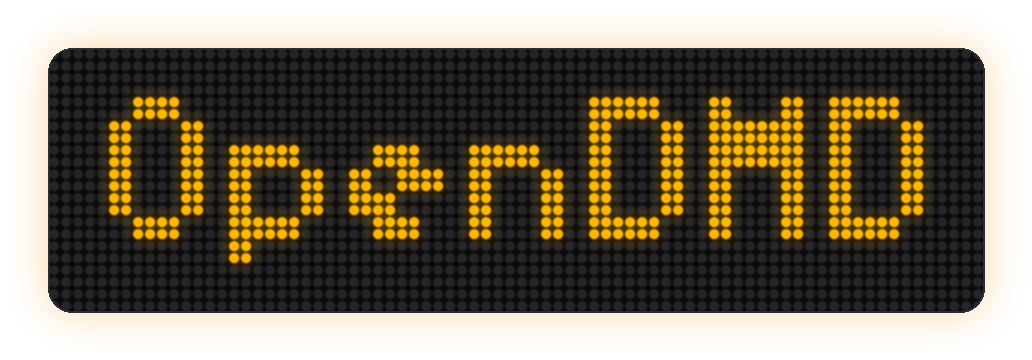
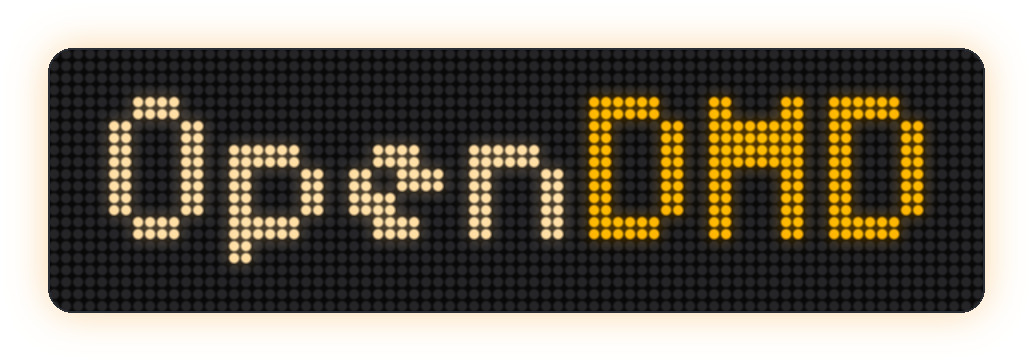
The wordmark in two colours: "Open" warm white, "DMD" amber
As in the OD mark. "Open" is the card title's warm white
(text::TITLE_COLOUR, 255,214,150), "DMD" the amber it was (255,170,0).
Each part warms up through its own hot peak (HOT for the amber, the
glint's light for the white) and glints over its own colour; the show,
the status card and the site's cut of it all follow. The update screens'
titles and every line keep their colours.

docs/images/wordmark.png (tools/readme-art.py) and social-preview.png
(tools/logo.py) regenerated from the new site-art wordmark. Firmware
app +144 B; the updater is unchanged.

Claude-Session: https://claude.ai/code/session_01Mda6ajNgpTAMU1uxVDfDKQ

Changed region(s): [[0.093, 0.2444, 0.5581, 0.7333]]

diff --git a/opendmd-core/src/boot.rs b/opendmd-core/src/boot.rs
@@ -1,14 +1,15 @@
 //! The startup sequence ("boot show") and the status card.
 //!
 //! Both are built on the wordmark: "OpenDMD" in the panel's big font (the
-//! 5x7 font at twice its size: 68 x 14 px),
-//! amber (`ffaa00`) on black, centred across the panel.
+//! 5x7 font at twice its size: 68 x 14 px) in two colours, "Open" warm
+//! white (`ffd696`) and "DMD" amber (`ffaa00`), on black, centred across
+//! the panel.
 //!
 //! **The show** plays on the panel from the moment it lights until the
 //! first GIF can take over. The name powers on as a dot-matrix display
 //! does: its dots light in a sweep from left to right, each with a little
 //! jitter, and each warms up like a phosphor (a dull ember, a brief hot
-//! peak, then settling to amber); a single glint sweeps across it once
+//! peak, then settling to its colour); a single glint sweeps across it once
 //! every dot has settled; and a status line fades in underneath in the
 //! small font: the version first, then the most useful thing there is to
 //! say (the WiFi network to join in setup mode, a card problem in plain
@@ -303,14 +304,20 @@ const CARD_Y: i32 = 2;
 const SHOW_LINE_Y: i32 = 23;
 const CARD_LINE_Y: [i32; 2] = [18, 25];
 
-/// The wordmark's amber, as on the site.
+/// The wordmark's amber ("DMD"), as on the site.
 const AMBER: Rgb = Rgb::new(255, 170, 0);
-/// A dot's warm-up: a dull ember, a hot peak, amber; and the faint glow of
-/// the full show's cold filament.
+/// The wordmark's warm white ("Open"): the card's title white
+/// (`text::TITLE_COLOUR`), the O of the mark beside the amber D.
+const WHITE: Rgb = text::TITLE_COLOUR;
+/// How many of the name's letters are "Open", in [`WHITE`].
+const OPEN: i32 = 4;
+/// A dot's warm-up: a dull ember, a hot peak (each part's own), its
+/// colour; and the faint glow of the full show's cold filament.
 const EMBER: Rgb = Rgb::new(120, 30, 0);
 const HOT: Rgb = Rgb::new(255, 214, 130);
 const COLD: Rgb = Rgb::new(44, 10, 0);
-/// The glint's light, at most `GLINT_K` / 256 over the amber.
+/// The glint's light, at most `GLINT_K` / 256 over the name's colour; also
+/// "Open"'s hot peak, hotter than its white as `HOT` is than the amber.
 const GLINT: Rgb = Rgb::new(255, 244, 210);
 const GLINT_K: u32 = 200;
 /// The text: the status line and the card's second line, amber
@@ -323,6 +330,16 @@ const PROBLEM: Rgb = text::TITLE_COLOUR;
 fn dot(u: i32, v: i32) -> bool {
     let rows = Font::Normal.rows(LOGO[(u / 5) as usize] as char);
     rows[v as usize] & (0x80 >> (u % 5)) != 0
+}
+
+/// Font column `u`'s colour and warm-up peak: "Open" warm white, "DMD"
+/// amber.
+fn part(u: i32) -> (Rgb, Rgb) {
+    if u / Font::Normal.advance() as i32 >= OPEN {
+        (AMBER, HOT)
+    } else {
+        (WHITE, GLINT)
+    }
 }
 
 /// Draw the name with its top on row `y0`, each lit panel pixel `(x, y)`
@@ -345,14 +362,16 @@ fn mix(a: Rgb, b: Rgb, k: u32) -> Rgb {
     Rgb::new(m(a.r, b.r), m(a.g, b.g), m(a.b, b.b))
 }
 
-/// A dot `age` ms into its warm-up of `w`: from a dull ember up to a hot
-/// peak at a third of the way, then cooling to amber.
-fn warm(age: u32, w: u32) -> Rgb {
+/// A dot of font column `u`, `age` ms into its warm-up of `w`: from a dull
+/// ember up to its part's hot peak at a third of the way, then cooling to
+/// its part's colour.
+fn warm(u: i32, age: u32, w: u32) -> Rgb {
+    let (colour, hot) = part(u);
     let k = ramp(age, 0, w);
     if k < 85 {
-        mix(EMBER, HOT, k * 3)
+        mix(EMBER, hot, k * 3)
     } else {
-        mix(HOT, AMBER, (k - 85) * 256 / 171)
+        mix(hot, colour, (k - 85) * 256 / 171)
     }
 }
 
@@ -369,7 +388,7 @@ fn glint(p: u32, x: i32, y: i32, y0: i32) -> u32 {
     (4u32.saturating_sub(d)) * GLINT_K / 4
 }
 
-/// The amber name with the glint `p` ms into its pass.
+/// The name's colour `c` with the glint `p` ms into its pass.
 fn glinting(c: Rgb, p: u32, x: i32, y: i32, y0: i32) -> Rgb {
     match glint(p, x, y, y0) {
         0 => c,
@@ -436,8 +455,8 @@ pub fn show(canvas: &mut Canvas, len: ShowLength, t: u32, info: &Info) {
         let at = b.on + col * b.sweep / last + fx::hash(key ^ 0xb007) % b.jitter;
         match t.checked_sub(at) {
             None => cold,
-            Some(age) if age < b.warm => warm(age, b.warm),
-            Some(_) => glinting(AMBER, p, x, y, SHOW_Y),
+            Some(age) if age < b.warm => warm(u, age, b.warm),
+            Some(_) => glinting(part(u).0, p, x, y, SHOW_Y),
         }
     });
     if t >= b.status {
@@ -624,7 +643,7 @@ pub fn card(canvas: &mut Canvas, t: u32, info: &Info, from_show: Option<(ShowLen
     let e = 256 - (256 - arrive) * (256 - arrive) / 256;
     let y0 = SHOW_Y - ((SHOW_Y - CARD_Y) as u32 * e).div_ceil(256) as i32;
     let p = (t + 4_096 - 1_500) % 4_096;
-    logo(canvas, y0, |x, y, _, _| glinting(AMBER, p, x, y, y0));
+    logo(canvas, y0, |x, y, u, _| glinting(part(u).0, p, x, y, y0));
     // The lines coming up over the second half.
     let k = ramp(arrive, 128, 256);
     let (first, second) = info.card_lines();
@@ -783,11 +802,18 @@ mod tests {
     }
 
     /// The name's panel pixels: what `text::draw_text_with` draws in the
-    /// big font with its top-left at `(LOGO_X, y0)`.
-    fn wordmark(y0: i32) -> Canvas {
+    /// big font with its top-left at `(x0, y0)`, "Open" warm white and
+    /// "DMD" amber.
+    fn wordmark_at(x0: i32, y0: i32) -> Canvas {
         let mut c = Canvas::new();
-        text::draw_text_with(&mut c, LOGO_X, y0, "OpenDMD", AMBER, Font::Normal, 2);
+        text::draw_text_with(&mut c, x0, y0, "Open", WHITE, Font::Normal, 2);
+        let dx = 4 * Font::Normal.advance() as i32 * 2;
+        text::draw_text_with(&mut c, x0 + dx, y0, "DMD", AMBER, Font::Normal, 2);
         c
+    }
+
+    fn wordmark(y0: i32) -> Canvas {
+        wordmark_at(LOGO_X, y0)
     }
 
     /// `c`'s rows `y0..y0 + LOGO_H` only (the name's band).
@@ -927,7 +953,7 @@ mod tests {
                 .iter()
                 .zip(&settled)
                 .filter(|(a, b)| a != b)
-                .inspect(|(a, b)| assert!(a.b > b.b && **b == AMBER))
+                .inspect(|(a, b)| assert!(a.b > b.b && (**b == AMBER || **b == WHITE)))
                 .count();
             assert!(lighter > 20, "{len:?}: {lighter} glinting");
         }
@@ -935,16 +961,51 @@ mod tests {
 
     #[test]
     fn the_wordmark_is_what_text_draws() {
-        // "OpenDMD" in the big font, amber, centred: the same pixels as
-        // the card's name, moved (the site's wordmark is cut from the card).
-        let mut site = Canvas::new();
+        // "OpenDMD" in the big font, two colours, centred: the same pixels
+        // as the card's name, moved (the site's wordmark is cut from the
+        // card).
         let y = (HEIGHT as i32 - LOGO_H) / 2;
         let w = text::text_width(Font::Normal, "OpenDMD", 2) as i32;
-        text::draw_text_with(&mut site, (WIDTH as i32 - w) / 2, y, "OpenDMD", AMBER, Font::Normal, 2);
+        let site = wordmark_at((WIDTH as i32 - w) / 2, y);
         let mut c = Canvas::new();
         card(&mut c, 0, &Info::default(), None);
         assert_eq!(band(&site, y), band(&c, CARD_Y));
         assert_eq!(lit(&site), lit(&c));
+    }
+
+    #[test]
+    fn open_is_warm_white_and_dmd_amber() {
+        // The settled name (show and card) in exactly two colours: every
+        // lit pixel left of the D warm white, from the D on amber.
+        assert_eq!(WHITE, Rgb::new(255, 214, 150));
+        let split = LOGO_X + OPEN * Font::Normal.advance() as i32 * SCALE;
+        let mut show_c = Canvas::new();
+        show(&mut show_c, ShowLength::Short, SHORT.glint + 1_000, &INFO);
+        let mut card_c = Canvas::new();
+        card(&mut card_c, 0, &INFO, None);
+        for (c, y0) in [(&show_c, SHOW_Y), (&card_c, CARD_Y)] {
+            let (mut white, mut amber) = (0, 0);
+            for y in y0..y0 + LOGO_H {
+                for x in 0..WIDTH as i32 {
+                    match c.get(x as usize, y as usize) {
+                        Rgb::BLACK => {}
+                        p if x < split => {
+                            assert_eq!(p, WHITE, "({x}, {y})");
+                            white += 1;
+                        }
+                        p => {
+                            assert_eq!(p, AMBER, "({x}, {y})");
+                            amber += 1;
+                        }
+                    }
+                }
+            }
+            assert!(white > 50 && amber > 50, "{white} white, {amber} amber");
+        }
+        // Each part warms up through its own hot peak, bluer than its colour.
+        assert_eq!(warm(0, 300, 300), WHITE);
+        assert_eq!(warm(OPEN * 5, 300, 300), AMBER);
+        assert!(warm(0, 100, 300).b > WHITE.b && warm(OPEN * 5, 100, 300).b > AMBER.b);
     }
 
     #[test]
